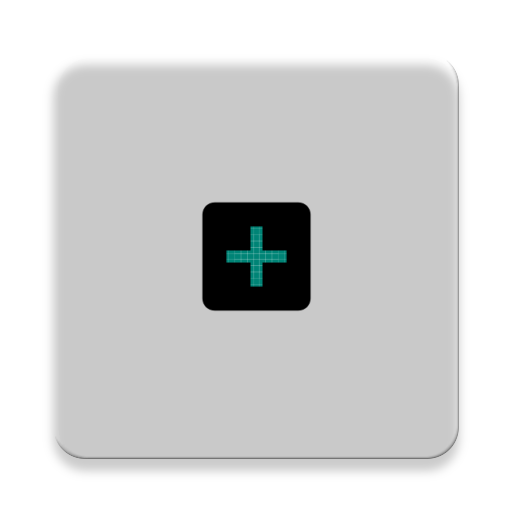
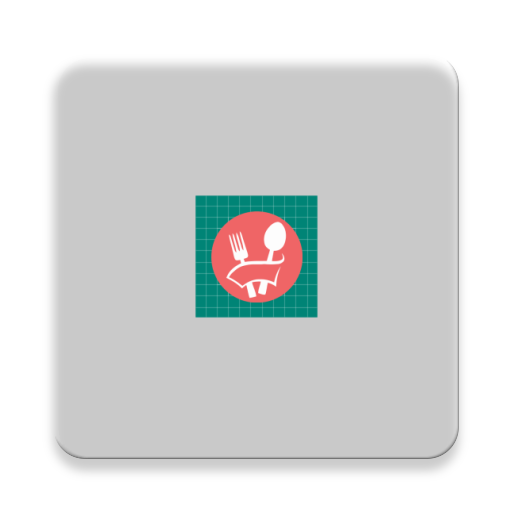
Cleaned up some code, fixed non-favourites showing up as favourites in recipe list

Changed region(s): [[0.375, 0.375, 0.625, 0.625]]

diff --git a/app/src/main/java/ie/wit/fragments/RecipeFragment.kt b/app/src/main/java/ie/wit/fragments/RecipeFragment.kt
@@ -8,6 +8,7 @@ import android.view.LayoutInflater
 import android.view.View
 import android.view.ViewGroup
 import android.widget.ImageView
+import android.widget.Toast
 import androidx.appcompat.app.AlertDialog
 import androidx.recyclerview.widget.RecyclerView
 import com.google.firebase.database.DataSnapshot
@@ -22,7 +23,11 @@ import ie.wit.models.RecipesModel
 import ie.wit.utils.*
 import jp.wasabeef.picasso.transformations.CropCircleTransformation
 import kotlinx.android.synthetic.main.fragment_about_us.*
+import kotlinx.android.synthetic.main.fragment_edit.*
 import kotlinx.android.synthetic.main.fragment_recipe.*
+import kotlinx.android.synthetic.main.fragment_recipe.recipeDescription
+import kotlinx.android.synthetic.main.fragment_recipe.recipeImageView
+import kotlinx.android.synthetic.main.fragment_recipe.recipeTitle
 import kotlinx.android.synthetic.main.fragment_recipe.view.*
 
 import kotlinx.android.synthetic.main.home.*
@@ -30,6 +35,7 @@ import kotlinx.android.synthetic.main.nav_header_home.view.*
 //import kotlinx.android.synthetic.main.nav_header_home.view.*
 import org.jetbrains.anko.AnkoLogger
 import org.jetbrains.anko.info
+import org.jetbrains.anko.toast
 //import org.jetbrains.anko.toast
 //import java.lang.String.format
 import java.util.HashMap
@@ -39,7 +45,6 @@ class RecipeFragment : Fragment(), AnkoLogger {
 
     lateinit var app: RecipesApp
     var recipe = RecipesModel()
-
     lateinit var loader : AlertDialog
     lateinit var eventListener : ValueEventListener
     var favourite = false
@@ -86,9 +91,7 @@ class RecipeFragment : Fragment(), AnkoLogger {
 
     fun setButtonListener( layout: View) {
         layout.btnAdd.setOnClickListener {
-//            val amount = if (
-//                layout.recipeTitle.text.isNotEmpty()
-//                layout.recipeTitle.text.toString().toInt()
+
             writeNewRecipes(RecipesModel(
             title = recipeTitle.text.toString(),
             description = recipeDescription.text.toString(),
@@ -100,22 +103,21 @@ class RecipeFragment : Fragment(), AnkoLogger {
             email = app.auth.currentUser?.email))
 
 
-//                val paymentmethod = if(layout.paymentMethod.checkedRadioButtonId == R.id.Direct) "Direct" else "Paypal"
-//                writeNewRecipes(RecipesModel(paymenttype = paymentmethod, amount = amount,
-
             }
         }
+
+
 
 
     fun setFavouriteListener (layout: View) {
         layout.imagefavourite.setOnClickListener(object : View.OnClickListener {
             override fun onClick(view: View?) {
                 if (!favourite) {
-                    layout.imagefavourite.setImageResource(android.R.drawable.star_big_on)
+                    layout.imagefavourite.setImageResource(R.drawable.ic_favorite_on)
                     favourite = true
                 }
                 else {
-                    layout.imagefavourite.setImageResource(android.R.drawable.star_big_off)
+                    layout.imagefavourite.setImageResource(R.drawable.ic_favorite_off)
                     favourite = false
                 }
             }
@@ -148,7 +150,7 @@ class RecipeFragment : Fragment(), AnkoLogger {
 
     override fun onResume() {
         super.onResume()
-        getTotalReciped(app.auth.currentUser?.uid)
+        getAllRecipes(app.auth.currentUser?.uid)
     }
 
     override fun onPause() {
@@ -182,18 +184,18 @@ class RecipeFragment : Fragment(), AnkoLogger {
 
     }
 
-    fun getTotalReciped(userId: String?) {
+    fun getAllRecipes(userId: String?) {
         eventListener = object : ValueEventListener {
             override fun onCancelled(error: DatabaseError) {
                 info("Firebase Recipes error : ${error.message}")
             }
 
             override fun onDataChange(snapshot: DataSnapshot) {
-//                totalReciped = 0
+
                 val children = snapshot.children
                 children.forEach {
                     val recipes = it.getValue<RecipesModel>(RecipesModel::class.java)
-//                    totalReciped += recipes!!.amount
+
                 }
 
             }

diff --git a/app/src/main/java/ie/wit/fragments/EditFragment.kt b/app/src/main/java/ie/wit/fragments/EditFragment.kt
@@ -8,25 +8,21 @@ import android.view.LayoutInflater
 import android.view.View
 import android.view.ViewGroup
 import androidx.appcompat.app.AlertDialog
-import androidx.core.net.toUri
 import com.google.firebase.database.DataSnapshot
 import com.google.firebase.database.DatabaseError
 import com.google.firebase.database.ValueEventListener
-import com.google.firebase.storage.FirebaseStorage
 import com.squareup.picasso.Callback
 import com.squareup.picasso.Picasso
-
 import ie.wit.R
 import ie.wit.main.RecipesApp
 import ie.wit.models.RecipesModel
 import ie.wit.utils.*
-import kotlinx.android.synthetic.main.fragment_about_us.view.*
 import kotlinx.android.synthetic.main.fragment_edit.view.*
 import kotlinx.android.synthetic.main.fragment_edit.view.recipeDescription
 import kotlinx.android.synthetic.main.fragment_edit.view.recipeImageView
 import kotlinx.android.synthetic.main.fragment_edit.view.recipeTitle
-import kotlinx.android.synthetic.main.fragment_recipe.*
-import kotlinx.android.synthetic.main.fragment_recipe.view.*
+import kotlinx.android.synthetic.main.fragment_recipe.recipeImageView
+
 import org.jetbrains.anko.AnkoLogger
 import org.jetbrains.anko.info
 
@@ -36,6 +32,7 @@ class EditFragment : Fragment(), AnkoLogger {
     lateinit var loader : AlertDialog
     lateinit var root: View
     var editRecipes: RecipesModel? = null
+    var favourite = false
 
 
 
@@ -74,7 +71,8 @@ class EditFragment : Fragment(), AnkoLogger {
             updateUserRecipes(app.auth.currentUser!!.uid,
                                editRecipes!!.uid, editRecipes!!)
         }
-        setImageListener(root)
+//        setImageListener(root)
+//          setFavouriteListener(root)
 //        setEditImageListener(root)
         return root
     }
@@ -88,6 +86,22 @@ class EditFragment : Fragment(), AnkoLogger {
                 }
             }
     }
+
+//    fun setFavouriteListener (layout: View) {
+//        layout.imagefavourite.setOnClickListener(object : View.OnClickListener {
+//            override fun onClick(view: View?) {
+//                if (!favourite) {
+//                    layout.imagefavourite.setImageResource(R.drawable.ic_favorite_on)
+//                    favourite = true
+//                }
+//                else {
+//                    layout.imagefavourite.setImageResource(R.drawable.ic_favorite_off)
+//                    favourite = false
+//
+//                }
+//            }
+//        })
+//    }
 
     fun setImageListener (layout: View) {
         layout.recipeImageView.setOnClickListener { showImagePicker3(this,1) }

diff --git a/app/src/main/java/ie/wit/adapters/RecipesAdapter.kt b/app/src/main/java/ie/wit/adapters/RecipesAdapter.kt
@@ -12,7 +12,7 @@ import jp.wasabeef.picasso.transformations.CropCircleTransformation
 import kotlinx.android.synthetic.main.card_recipes.view.*
 import kotlinx.android.synthetic.main.card_recipes.view.recipeDescription
 import kotlinx.android.synthetic.main.card_recipes.view.recipeTitle
-import kotlinx.android.synthetic.main.fragment_edit.view.*
+
 
 interface RecipesListener {
     fun onRecipesClick(recipes: RecipesModel)
@@ -50,12 +50,12 @@ class RecipesAdapter constructor(var recipes: ArrayList<RecipesModel>,
 
         fun bind(recipes: RecipesModel, listener: RecipesListener, reportAll: Boolean) {
             itemView.tag = recipes
-//            itemView.paymentamount.text = recipes.amount.toString()
-//            itemView.paymentmethod.text = recipes.paymenttype
             itemView.recipeTitle.text = recipes.title
             itemView.recipeDescription.text = recipes.description
 //            Picasso.get().load(recipes.recipestoreimage.toUri()).into(itemView.recipeImageView)
-            if(recipes.isfavourite) itemView.imagefavourite.setImageResource(android.R.drawable.star_big_on)
+            if(recipes.isfavourite) itemView.imagefavourite.setImageResource(R.drawable.ic_favorite_on)
+
+
 
             if(!reportAll)
                 itemView.setOnClickListener { listener.onRecipesClick(recipes) }
@@ -67,7 +67,7 @@ class RecipesAdapter constructor(var recipes: ArrayList<RecipesModel>,
                     .into(itemView.imageIcon)
             }
             else
-                itemView.imageIcon.setImageResource(R.mipmap.ic_launcher_homer_round)
+                itemView.imageIcon.setImageResource(R.mipmap.ic_launcher_food_round)
         }
     }
 }

diff --git a/app/src/main/java/ie/wit/utils/helpers.kt b/app/src/main/java/ie/wit/utils/helpers.kt
@@ -40,7 +40,7 @@ fun createLoader(activity: FragmentActivity) : AlertDialog {
         .setView(R.layout.loading)
     var loader = loaderBuilder.create()
     loader.setTitle(R.string.app_name)
-    loader.setIcon(R.mipmap.ic_launcher_homer_round)
+    loader.setIcon(R.mipmap.ic_launcher_food_round)
 
     return loader
 }
@@ -199,9 +199,9 @@ fun validatePhoto(app: RecipesApp, activity: Activity) {
                 override fun onError(e: Exception) {}
             })
     }
-    else {   // New Regular User, upload default pic of homer
+    else {   // New Regular User, upload default pic of food
         activity.navView.getHeaderView(0).imageView
-            .setImageResource(R.mipmap.ic_launcher_homer_round)
+            .setImageResource(R.mipmap.ic_launcher_food_round)
         uploadImageView(app, activity.navView.getHeaderView(0).imageView)
     }
 }
@@ -351,9 +351,9 @@ fun writeImageRef2(app: RecipesApp, imageRef: String) {
 //                override fun onError(e: Exception) {}
 //            })
 //    }
-//    else {   // New Regular User, upload default pic of homer
+//    else {   // New Regular User, upload default pic of food
 //        activity.recipeImageView
-//            .setImageResource(R.mipmap.ic_launcher_homer_round)
+//            .setImageResource(R.mipmap.ic_launcher_food_round)
 //        uploadImageView2(app, activity.recipeImageView)
 //    }
 //}

diff --git a/app/src/main/java/ie/wit/activities/Home.kt b/app/src/main/java/ie/wit/activities/Home.kt
@@ -5,9 +5,7 @@ import android.location.Location
 import androidx.appcompat.app.AppCompatActivity
 import android.os.Bundle
 import android.util.Log
-import android.view.Menu
 import android.view.MenuItem
-import android.view.Window
 import androidx.appcompat.app.ActionBarDrawerToggle
 import androidx.core.view.GravityCompat
 import androidx.fragment.app.Fragment
@@ -125,20 +123,6 @@ class Home : AppCompatActivity(),
         drawerLayout.closeDrawer(GravityCompat.START)
         return true
     }
-
-    override fun onCreateOptionsMenu(menu: Menu): Boolean {
-        menuInflater.inflate(R.menu.menu_home, menu)
-        return true
-    }
-
-//    override fun onOptionsItemSelected(item: MenuItem): Boolean {
-//
-//        when (item.itemId) {
-//            R.id.action_recipe -> toast("You Selected Recipe")
-//            R.id.action_report -> toast("You Selected Report")
-//        }
-//        return super.onOptionsItemSelected(item)
-//    }
 
     override fun onBackPressed() {
         if (drawerLayout.isDrawerOpen(GravityCompat.START))

diff --git a/app/src/main/java/ie/wit/models/RecipesModel.kt b/app/src/main/java/ie/wit/models/RecipesModel.kt
@@ -12,13 +12,7 @@ data class RecipesModel(
     var id: Long = 0,
     var title: String = "",
     var description: String = "",
-//    var recipeImage: String = "",
     var recipestoreimage: String = "",
-
-//    var paymenttype: String = "N/A",
-//    var amount: Int = 0,
-//    var message: String = "a message",
-//    var upvotes: Int = 0,
     var profilepic: String = "",
     var isfavourite: Boolean = false,
     var latitude: Double = 0.0,
@@ -33,13 +27,7 @@ data class RecipesModel(
             "id" to id,
             "title" to title,
             "description" to description,
-//            "recipeImage" to recipeImage,
             "recipestoreimage" to recipestoreimage,
-//            "paymenttype" to paymenttype,
-//            "amount" to amount,
-//            "message" to message,
-//            "upvotes" to upvotes,
-
             "profilepic" to profilepic,
             "isfavourite" to isfavourite,
             "latitude" to latitude,

diff --git a/app/src/main/java/ie/wit/utils/locationhelpers.kt b/app/src/main/java/ie/wit/utils/locationhelpers.kt
@@ -147,7 +147,7 @@ fun addMapMarkers(dl : ArrayList<RecipesModel>, map: GoogleMap) {
                 .title("${it.title} €${it.description}")
 //                .snippet(it.message)
                 .icon(
-                    BitmapDescriptorFactory.fromResource(R.mipmap.ic_homer_map))
+                    BitmapDescriptorFactory.fromResource(R.mipmap.ic_food_map))
         )
     }
 }

diff --git a/app/src/androidTest/java/ie/wit/ExampleInstrumentedTest.kt b/app/src/androidTest/java/ie/wit/ExampleInstrumentedTest.kt
@@ -1,7 +1,6 @@
 package ie.wit
 
 import androidx.test.platform.app.InstrumentationRegistry
-import androidx.test.ext.junit.runners.AndroidJUnit4
 import androidx.test.runner.AndroidJUnit4
 
 import org.junit.Test
